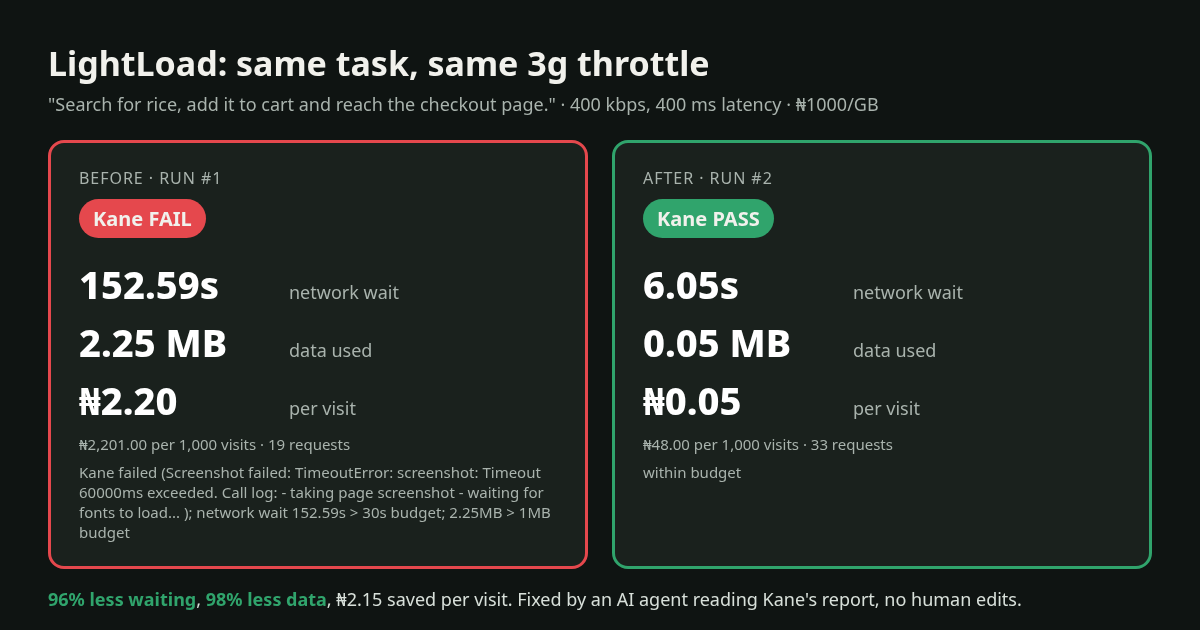
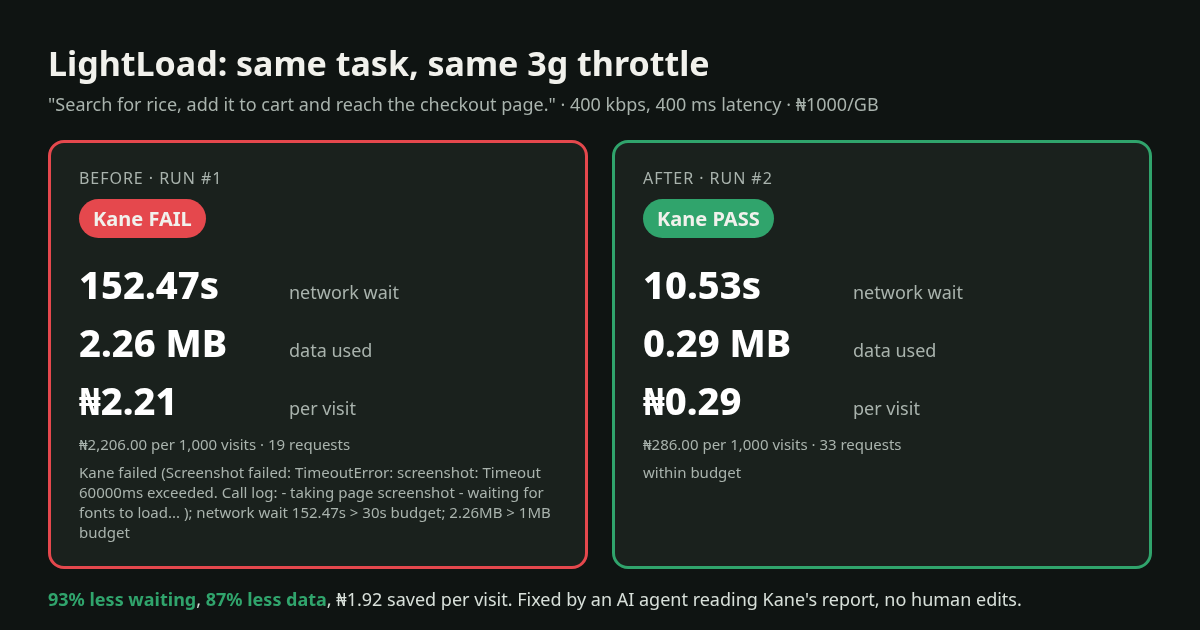
docs: before/after card for runs #1 and #2

diff --git a/card/before-after.html b/card/before-after.html
@@ -17,23 +17,23 @@ h1{margin:0;font-size:34px} .sub{color:#a9b3ad;margin:6px 0 24px;font-size:18px}
 <div class="row"><div class="col fail">
   <div class="label">Before &middot; run #1</div>
   <div class="badge">Kane FAIL</div>
-  <div class="stat"><span>152.59s</span>network wait</div>
-  <div class="stat"><span>2.25 MB</span>data used</div>
-  <div class="stat"><span>₦2.20</span>per visit</div>
-  <div class="small">₦2,201.00 per 1,000 visits &middot; 19 requests</div>
+  <div class="stat"><span>152.47s</span>network wait</div>
+  <div class="stat"><span>2.26 MB</span>data used</div>
+  <div class="stat"><span>₦2.21</span>per visit</div>
+  <div class="small">₦2,206.00 per 1,000 visits &middot; 19 requests</div>
   <div class="small">Kane failed (Screenshot failed: TimeoutError: screenshot: Timeout 60000ms exceeded.
 Call log:
   - taking page screenshot
   - waiting for fonts to load...
-); network wait 152.59s &gt; 30s budget; 2.25MB &gt; 1MB budget</div>
+); network wait 152.47s &gt; 30s budget; 2.26MB &gt; 1MB budget</div>
 </div><div class="col pass">
   <div class="label">After &middot; run #2</div>
   <div class="badge">Kane PASS</div>
-  <div class="stat"><span>6.05s</span>network wait</div>
-  <div class="stat"><span>0.05 MB</span>data used</div>
-  <div class="stat"><span>₦0.05</span>per visit</div>
-  <div class="small">₦48.00 per 1,000 visits &middot; 33 requests</div>
+  <div class="stat"><span>10.53s</span>network wait</div>
+  <div class="stat"><span>0.29 MB</span>data used</div>
+  <div class="stat"><span>₦0.29</span>per visit</div>
+  <div class="small">₦286.00 per 1,000 visits &middot; 33 requests</div>
   <div class="small">within budget</div>
 </div></div>
-<div class="foot"><b>96% less waiting</b>, <b>98% less data</b>, ₦2.15 saved per visit. Fixed by an AI agent reading Kane's report, no human edits.</div>
+<div class="foot"><b>93% less waiting</b>, <b>87% less data</b>, ₦1.92 saved per visit. Fixed by an AI agent reading Kane's report, no human edits.</div>
 </div></body></html>
